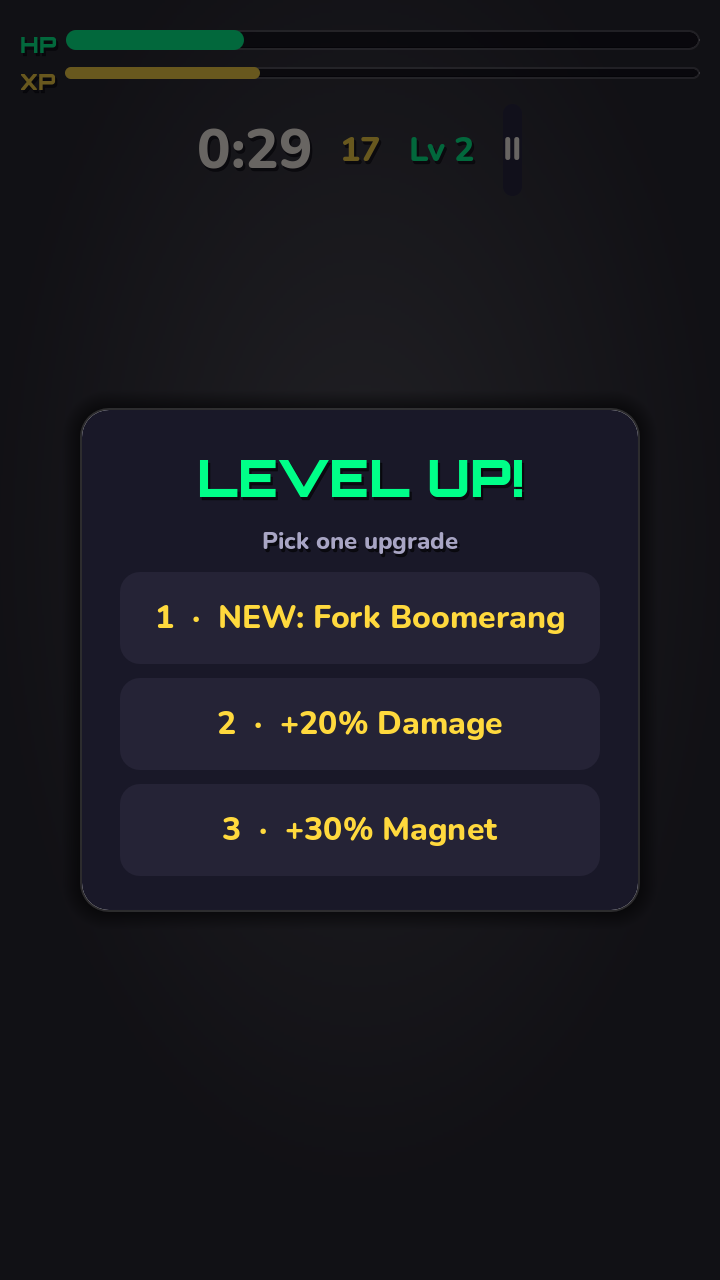
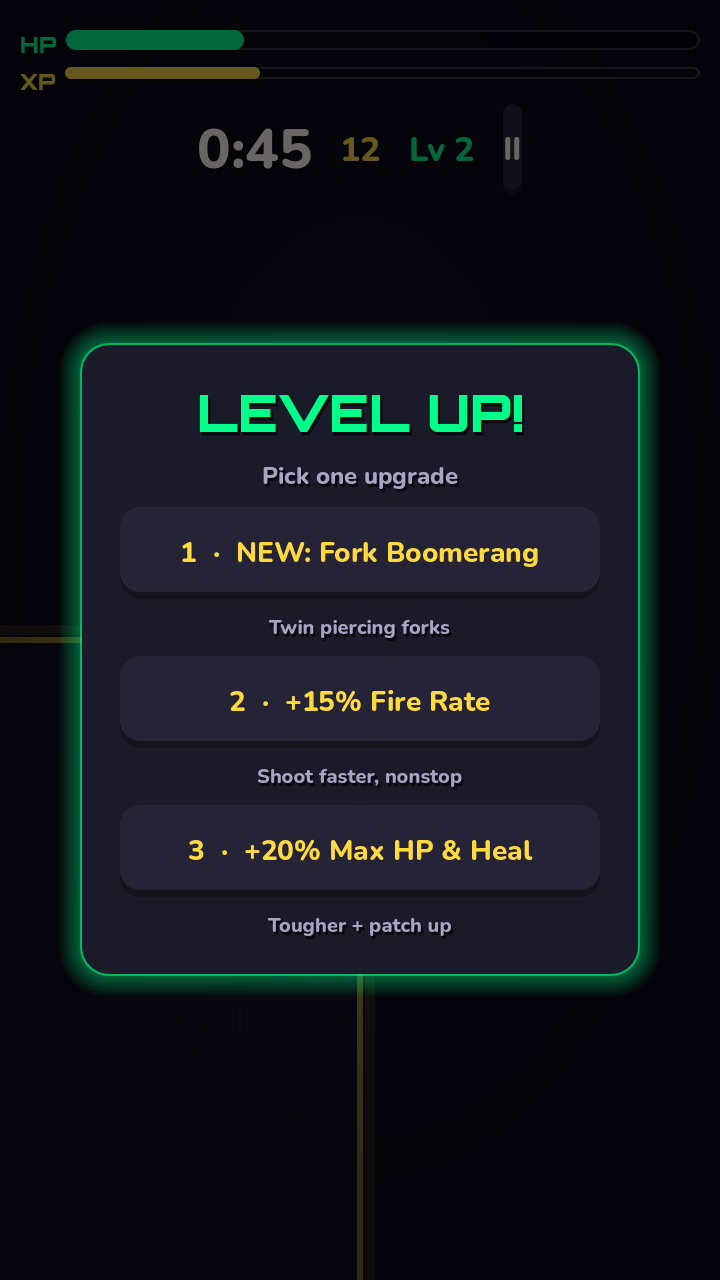
v0.5 Stitch redesign - chunky buttons, neon rims, card descs, pause stats, game-over grid, gem group fix

diff --git a/README.md b/README.md
@@ -80,6 +80,7 @@ flash + haptics, persisted sound/reduce-motion prefs, numbered upgrade cards.
 
 ## Versions
 
+* **v0.5** — Stitch redesign pass (chunky arcade buttons, neon panel rims, upgrade descriptions, pause stats, game-over grid + NEW BEST, gem group fix)
 * **v0.4** — camera/visual bugfixes found via rendered screenshots, persisted prefs, VIBRATE permission
 * **v0.3** — skill-driven UX pass (pause menu, hint, haptics, toggles)
 * **v0.2** — UI overhaul (fonts, restyled HUD/menus)
